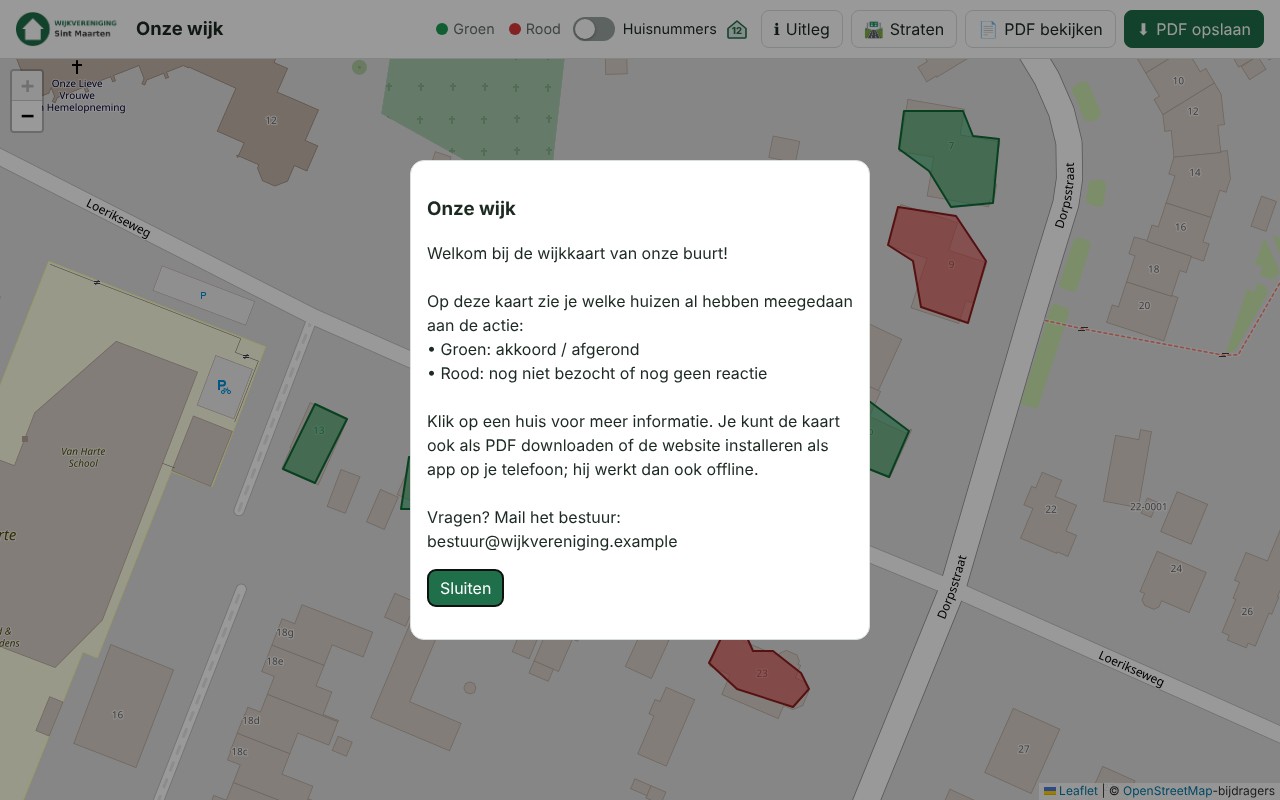
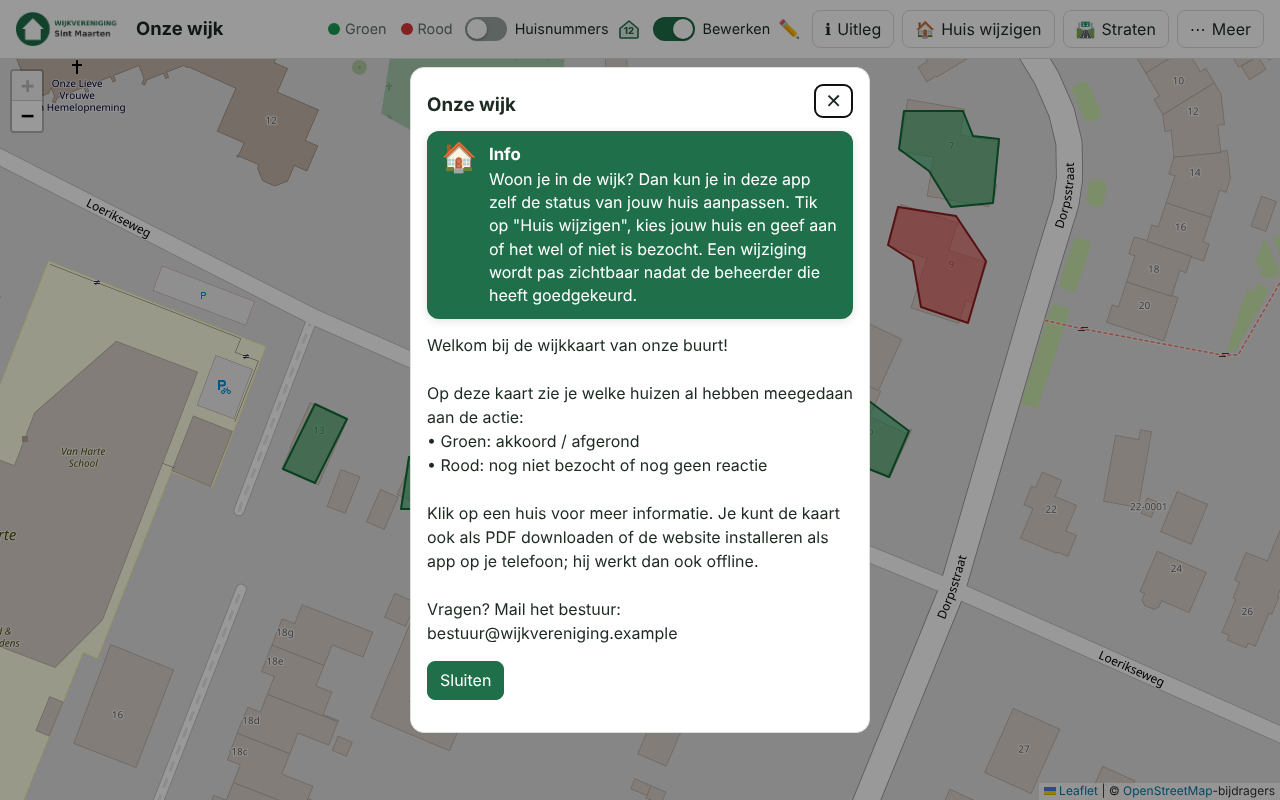
README: screenshots in grids (leesbaar op een normale breedte) en opnieuw gemaakt met de laatste versie
Claude-Session: https://claude.ai/code/session_01RbVCVsqhcBjjeTGeb2Cmpu

Changed region(s): [[0.25, 0.0, 1.0, 0.5938], [0.3125, 0.625, 0.6875, 0.9375]]

diff --git a/README.md b/README.md
@@ -35,33 +35,35 @@ Een interactieve kaart van de wijk waarop elk huis **groen**, **rood** of **niet
 
 Voorbeeld met willekeurige huizen (kaartgegevens © OpenStreetMap-bijdragers).
 
-**Publieke kaart** – met het logo van de vereniging; klik op een huis voor de notitie. Bovenaan staan de knoppen voor de uitleg, de straten en het menu *Meer* (⋯) met de PDF-knoppen.
+<table>
+<tr><td align="center" valign="top"><a href="docs/screenshots/publiek.png"><img src="docs/screenshots/publiek.png" width="270" alt="Publieke kaart"></a><br><sub>Publieke kaart</sub></td><td align="center" valign="top"><a href="docs/screenshots/straten-popup.png"><img src="docs/screenshots/straten-popup.png" width="270" alt="Straten per straat tonen/verbergen"></a><br><sub>Straten per straat tonen/verbergen</sub></td><td align="center" valign="top"><a href="docs/screenshots/uitleg.png"><img src="docs/screenshots/uitleg.png" width="270" alt="Uitleg met infovlak"></a><br><sub>Uitleg met infovlak</sub></td></tr>
+</table>
 
-![Publieke kaart](docs/screenshots/publiek.png)
+<table>
+<tr><td align="center" valign="top"><a href="docs/screenshots/mobiel.png"><img src="docs/screenshots/mobiel.png" width="220" alt="Mobiel"></a><br><sub>Mobiel</sub></td><td align="center" valign="top"><a href="docs/screenshots/straten-popup-mobiel.png"><img src="docs/screenshots/straten-popup-mobiel.png" width="220" alt="Straten (mobiel)"></a><br><sub>Straten (mobiel)</sub></td><td align="center" valign="top"><a href="docs/screenshots/info-vlak-mobiel.png"><img src="docs/screenshots/info-vlak-mobiel.png" width="220" alt="Infovlak in de uitleg"></a><br><sub>Infovlak in de uitleg</sub></td></tr>
+</table>
+
+**Publieke kaart** – met het logo van de vereniging; klik op een huis voor de notitie. Bovenaan staan de knoppen voor de uitleg, de straten en het menu *Meer* (⋯) met de PDF-knoppen.
 
 **Mobiel** – bovenaan alleen het logo, de titel en de schakelaar voor huisnummers; de acties (uitleg, straten, Meer) staan onderaan, met het statusbalkje (groen/rood) er altijd net boven.
 
-![Mobiel](docs/screenshots/mobiel.png)
-
 **Straten** – met het straat-icoon (🛣) in de menubalk zet je per straat de huizen op de kaart (en in de PDF) aan of uit. Per straat staat hoeveel huizen **groen** en **rood** zijn, en bovenaan het totaal van de zichtbare straten.
-
-![Straten](docs/screenshots/straten-popup.png)
 
 **Uitleg en infovlak** – de tekst van de vereniging; wordt de eerste keer automatisch getoond en sluit met het kruisje rechtsboven. Bovenaan staat het opvallende groene **infovlak** dat uitlegt dat bewoners hun eigen huis kunnen wijzigen; dat verdwijnt zodra wijzigen is uitgeschakeld.
 
-![Uitleg](docs/screenshots/uitleg.png)
-![Infovlak](docs/screenshots/info-vlak-mobiel.png)
-
 **PDF-export** – A4 liggend met legenda, aantallen en de datum en het tijdstip (HH:MM) van de stand. Pagina 2 bevat het logo, de uitleg en het overzicht van de gemarkeerde huizen. De PDF volgt de gekozen straten en de huisnummers.
 
-![PDF-export](docs/screenshots/pdf.png)
-![PDF-toelichting](docs/screenshots/pdf-toelichting.png)
+<table>
+<tr><td align="center" valign="top"><a href="docs/screenshots/pdf.png"><img src="docs/screenshots/pdf.png" width="400" alt="PDF: kaart met legenda en aantallen"></a><br><sub>PDF: kaart met legenda en aantallen</sub></td><td align="center" valign="top"><a href="docs/screenshots/pdf-toelichting.png"><img src="docs/screenshots/pdf-toelichting.png" width="400" alt="PDF: logo, uitleg en overzicht"></a><br><sub>PDF: logo, uitleg en overzicht</sub></td></tr>
+</table>
 
 ## Bewoners: huis wijzigen
 - In de **geïnstalleerde app** (PWA) staat in de menubalk altijd een knop **Huis wijzigen**, plus een knop **Sync** (🔄) waarmee je de huizen direct bijwerkt (de app ververst ook zelf elke 30 seconden).
 - In een **gewone browser** staat bovenin een schakelaar **Bewerken** (✏). Die staat **standaard aan** (zet je hem uit, dan onthoudt de browser dat), zodat de knop *Huis wijzigen* in de menubalk staat; zet je hem uit, dan verdwijnt die knop. *PDF opslaan* en *PDF bekijken* staan onder het menu **Meer** (⋯), ook in de app. Het balkje met de statuskleuren zweeft op een klein scherm altijd net boven de menubalk. In de app is deze schakelaar verborgen.
 
-![Bewerken en Meer-menu](docs/screenshots/bewerken-meer-mobiel.png)
+<table>
+<tr><td align="center" valign="top"><a href="docs/screenshots/bewerken-meer-mobiel.png"><img src="docs/screenshots/bewerken-meer-mobiel.png" width="190" alt="Menu Meer"></a><br><sub>Menu Meer</sub></td><td align="center" valign="top"><a href="docs/screenshots/bewoner-kies-huis.png"><img src="docs/screenshots/bewoner-kies-huis.png" width="190" alt="Huis kiezen"></a><br><sub>Huis kiezen</sub></td><td align="center" valign="top"><a href="docs/screenshots/bewoner-wacht.png"><img src="docs/screenshots/bewoner-wacht.png" width="190" alt="Wacht op goedkeuring"></a><br><sub>Wacht op goedkeuring</sub></td><td align="center" valign="top"><a href="docs/screenshots/bewoner-heropend.png"><img src="docs/screenshots/bewoner-heropend.png" width="190" alt="App heropend: koppeling blijft"></a><br><sub>App heropend: koppeling blijft</sub></td></tr>
+</table>
 
 **Snel naar jouw huis** – met een muis dubbelklik je op een huis, op een touchscreen druk je er lang op (ruim een halve seconde). Dan gaat *Bewerken* aan (in de browser), springt de kaart naar het huis en start de wijzigmodus; heb je nog geen huis gekozen, dan vraagt de app of het jouw huis is. Een dubbelklik buiten de huizen zoomt gewoon in. In het beheer selecteert hetzelfde gebaar het huis in de selecteermodus.
 
@@ -79,48 +81,42 @@ Voorbeeld met willekeurige huizen (kaartgegevens © OpenStreetMap-bijdragers).
 
 **Infovlak** – onder *Instellingen → Site → Teksten* staat een apart tekstveld voor het infovlak. Dat staat als opvallend groen blok bovenaan de uitleg op de website en legt uit dat bewoners hun eigen huis kunnen wijzigen. Het verdwijnt vanzelf zodra wijzigen door bewoners uit staat (of de geplande datum is verstreken).
 
-![Infovlak in de uitleg](docs/screenshots/info-vlak-mobiel.png)
-
 **Misbruik tegengaan** – onder *Instellingen → Goedkeuren* en *Bewoners → Apparaten* staat bij elke openstaande wijziging en bij elk aangemeld apparaat een knop **Blokkeren**. Het apparaat verliest zijn koppeling en openstaande wijzigingen, en kan niet meer wijzigen of een huis kiezen. Je kunt er ook het **IP-adres** bij blokkeren (let op: huisgenoten of buren achter dezelfde router delen vaak een IP). Onder *Geblokkeerd* haal je een blokkade weer weg.
 
 **Alleen in de app toestaan** – onder *Instellingen → Bewoners* zet je **Alleen in de geïnstalleerde app** aan. De schakelaar *Bewerken* verdwijnt dan voor browserbezoekers (ook bij een open pagina, na het verversen), en de server weigert wijzigingen die niet vanuit de app komen. De app meldt zich daarvoor met een kop (`X-App-Mode: standalone`). Dat is een gebruiksbeperking: wie de verzoeken zelf nabootst kan de kop meesturen, maar elke wijziging moet nog steeds door de beheerder worden goedgekeurd.
 
-![Alleen in de app](docs/screenshots/instellingen-alleen-app.png)
 - Een bewoner tikt op zijn huis (of kiest zijn adres) en bevestigt dat. Dat apparaat is dan aan **één huis** gekoppeld (cookie, 1 jaar). Daarna wisselt elke tik op dat huis (of een keuze in het venster) de kleur: niet gemarkeerd → groen → rood → niet gemarkeerd. Andere huizen kunnen niet worden gewijzigd.
 - De wijziging is **pas zichtbaar voor anderen nadat de beheerder die goedkeurt**. De bewoner ziet het huis in de tussentijd met een gestippelde rand en de melding *Wacht op goedkeuring*; na de beslissing volgt een bericht (goedgekeurd of niet doorgevoerd). De beheerder kan de status van een huis altijd zelf aanpassen; een openstaand voorstel volgt dan de nieuwe status of vervalt als het precies overeenkomt.
 - Er worden alleen een willekeurig apparaat-token (als hash), het IP-adres van het laatste verzoek (voor het blokkeren) en het gekozen huis bewaard, geen namen of andere persoonsgegevens.
 - De koppeling en het voorstel blijven **bewaard na het afsluiten van de app**: ze staan op de server, met een lokale kopie van het token als reserve (voor als de cookie wordt gewist) en van de laatste status (voor als er geen verbinding is). Het eigen huis blijft ook buiten de wijzigmodus zichtbaar (⏳ zolang de wijziging op goedkeuring wacht, daarna 🏠).
 - De app **ververst zichzelf** (elke 30 seconden, en zodra je terugkeert naar de app of weer online bent). Keurt de beheerder een wijziging goed, dan verschijnt die vanzelf op het apparaat, inclusief een melding "Je wijziging is goedgekeurd".
 
-![Huis kiezen](docs/screenshots/bewoner-kies-huis.png)
-![Wacht op goedkeuring](docs/screenshots/bewoner-wacht.png)
-
 ## Het beheer (`/beheer`)
+
+<table>
+<tr><td align="center" valign="top"><a href="docs/screenshots/onboarding.png"><img src="docs/screenshots/onboarding.png" width="400" alt="Onboarding met installatiecode"></a><br><sub>Onboarding met installatiecode</sub></td><td align="center" valign="top"><a href="docs/screenshots/beheer-login.png"><img src="docs/screenshots/beheer-login.png" width="400" alt="Inloggen met passkey"></a><br><sub>Inloggen met passkey</sub></td></tr>
+<tr><td align="center" valign="top"><a href="docs/screenshots/beheer-tekenen.png"><img src="docs/screenshots/beheer-tekenen.png" width="400" alt="Huis tekenen"></a><br><sub>Huis tekenen</sub></td><td align="center" valign="top"><a href="docs/screenshots/beheer.png"><img src="docs/screenshots/beheer.png" width="400" alt="Huis bewerken"></a><br><sub>Huis bewerken</sub></td></tr>
+</table>
 
 **Onboarding** – de eerste keer maak je een passkey aan met de installatiecode (`SETUP_TOKEN`).
 
-![Onboarding](docs/screenshots/onboarding.png)
-
 **Inloggen** – met passkey (vingerafdruk, gezicht, pincode of beveiligingssleutel), eventueel met wachtwoord dat je met een passkey bevestigt.
-
-![Inloggen](docs/screenshots/beheer-login.png)
 
 **Huis tekenen** – kies een kleur en klik de hoekpunten van het huis; sluit af met het gele beginpunt, dubbelklik of Enter. Nieuwe huizen krijgen standaard *geen status* en de actieve straat.
 
-![Huis tekenen](docs/screenshots/beheer-tekenen.png)
-
 **Huis bewerken** – selecteer een huis (klik, dubbelklik of lang indrukken) om de kleur, straat, huisnummer en notitie aan te passen, of sleep de hoekpunten. Sneltoetsen: **G** groen, **R** rood, **Delete** verwijderen, **Ctrl+S** opslaan. De lijst links heeft een filter per straat; de rest wordt op de kaart gedimd.
-
-![Beheerscherm](docs/screenshots/beheer.png)
 
 ## Instellingen
 Het tandwiel (⚙) in de balk schuift het instellingen-menu in beeld. Het is ingedeeld in vijf tabs; elke tab bestaat uit kaarten met duidelijke schakelaars en een korte uitleg (ook op een telefoon).
 
-![Instellingen op een telefoon](docs/screenshots/instellingen-mobiel.png)
+<table>
+<tr><td align="center" valign="top"><a href="docs/screenshots/instellingen-goedkeuren.png"><img src="docs/screenshots/instellingen-goedkeuren.png" width="270" alt="Goedkeuren"></a><br><sub>Goedkeuren</sub></td><td align="center" valign="top"><a href="docs/screenshots/instellingen-bewoners.png"><img src="docs/screenshots/instellingen-bewoners.png" width="270" alt="Bewoners"></a><br><sub>Bewoners</sub></td><td align="center" valign="top"><a href="docs/screenshots/instellingen-bewoners-apparaten.png"><img src="docs/screenshots/instellingen-bewoners-apparaten.png" width="270" alt="Bewoners: apparaten en meldingen"></a><br><sub>Bewoners: apparaten en meldingen</sub></td></tr>
+<tr><td align="center" valign="top"><a href="docs/screenshots/instellingen-site.png"><img src="docs/screenshots/instellingen-site.png" width="270" alt="Site"></a><br><sub>Site</sub></td><td align="center" valign="top"><a href="docs/screenshots/instellingen-beveiliging.png"><img src="docs/screenshots/instellingen-beveiliging.png" width="270" alt="Beveiliging"></a><br><sub>Beveiliging</sub></td><td align="center" valign="top"><a href="docs/screenshots/instellingen-backups.png"><img src="docs/screenshots/instellingen-backups.png" width="270" alt="Backups"></a><br><sub>Backups</sub></td></tr>
+</table>
+
+<p align="center"><a href="docs/screenshots/instellingen-mobiel.png"><img src="docs/screenshots/instellingen-mobiel.png" width="220" alt="Instellingen op een telefoon"></a><br><sub>Instellingen op een telefoon</sub></p>
 
 **Goedkeuren** – de wijzigingen die bewoners voor hun eigen huis hebben aangevraagd. Een rode teller bij het tandwiel en bij de tab toont het aantal; keur ze goed of af, of alles tegelijk.
-
-![Goedkeuren](docs/screenshots/instellingen-goedkeuren.png)
 
 **Bewoners** – alles rond het wijzigen door bewoners:
 - *Wijzigen door bewoners*: aan/uit, en eventueel alleen in de geïnstalleerde app (de schakelaar *Bewerken* verdwijnt dan in de browser en de server weigert wijzigingen zonder de app-kop `X-App-Mode: standalone`).
@@ -129,20 +125,11 @@ Het tandwiel (⚙) in de balk schuift het instellingen-menu in beeld. Het is ing
 - *Apparaten*: aangemelde apparaten (koppeling verwijderen of **blokkeren**, eventueel met IP-adres) en de lijst *Geblokkeerd*.
 - *Meldingen op dit apparaat*: pushmeldingen voor nieuwe wijzigingen.
 
-![Bewoners](docs/screenshots/instellingen-bewoners.png)
-![Bewoners: apparaten en meldingen](docs/screenshots/instellingen-bewoners-apparaten.png)
-
 **Site** – logo, naam van de site en de app, de eenvoudige weergave, de namen van de statussen, het infovlak en de uitleg.
-
-![Site](docs/screenshots/instellingen-site.png)
 
 **Beveiliging** – passkeys toevoegen/verwijderen en een optioneel wachtwoord (bevestigen met passkey).
 
-![Instellingen: beveiliging](docs/screenshots/instellingen-beveiliging.png)
-
 **Backups** – na elke opslagpoging wordt automatisch een backup gemaakt van de layout en teksten. Geef een backup een **korte titel** (✎, max. 40 tekens, bijvoorbeeld "Alles" of "Alleen layout") of maak er zelf een met *Backup maken*. Terugzetten of downloaden kan altijd; verwijderen (één of meer tegelijk) moet je bevestigen met je passkey.
-
-![Instellingen: backups](docs/screenshots/instellingen-backups.png)
 
 **Versie** – onderin het menu staat de versie en commit van de draaiende build (zie [Versienummer](#versienummer)).
 
